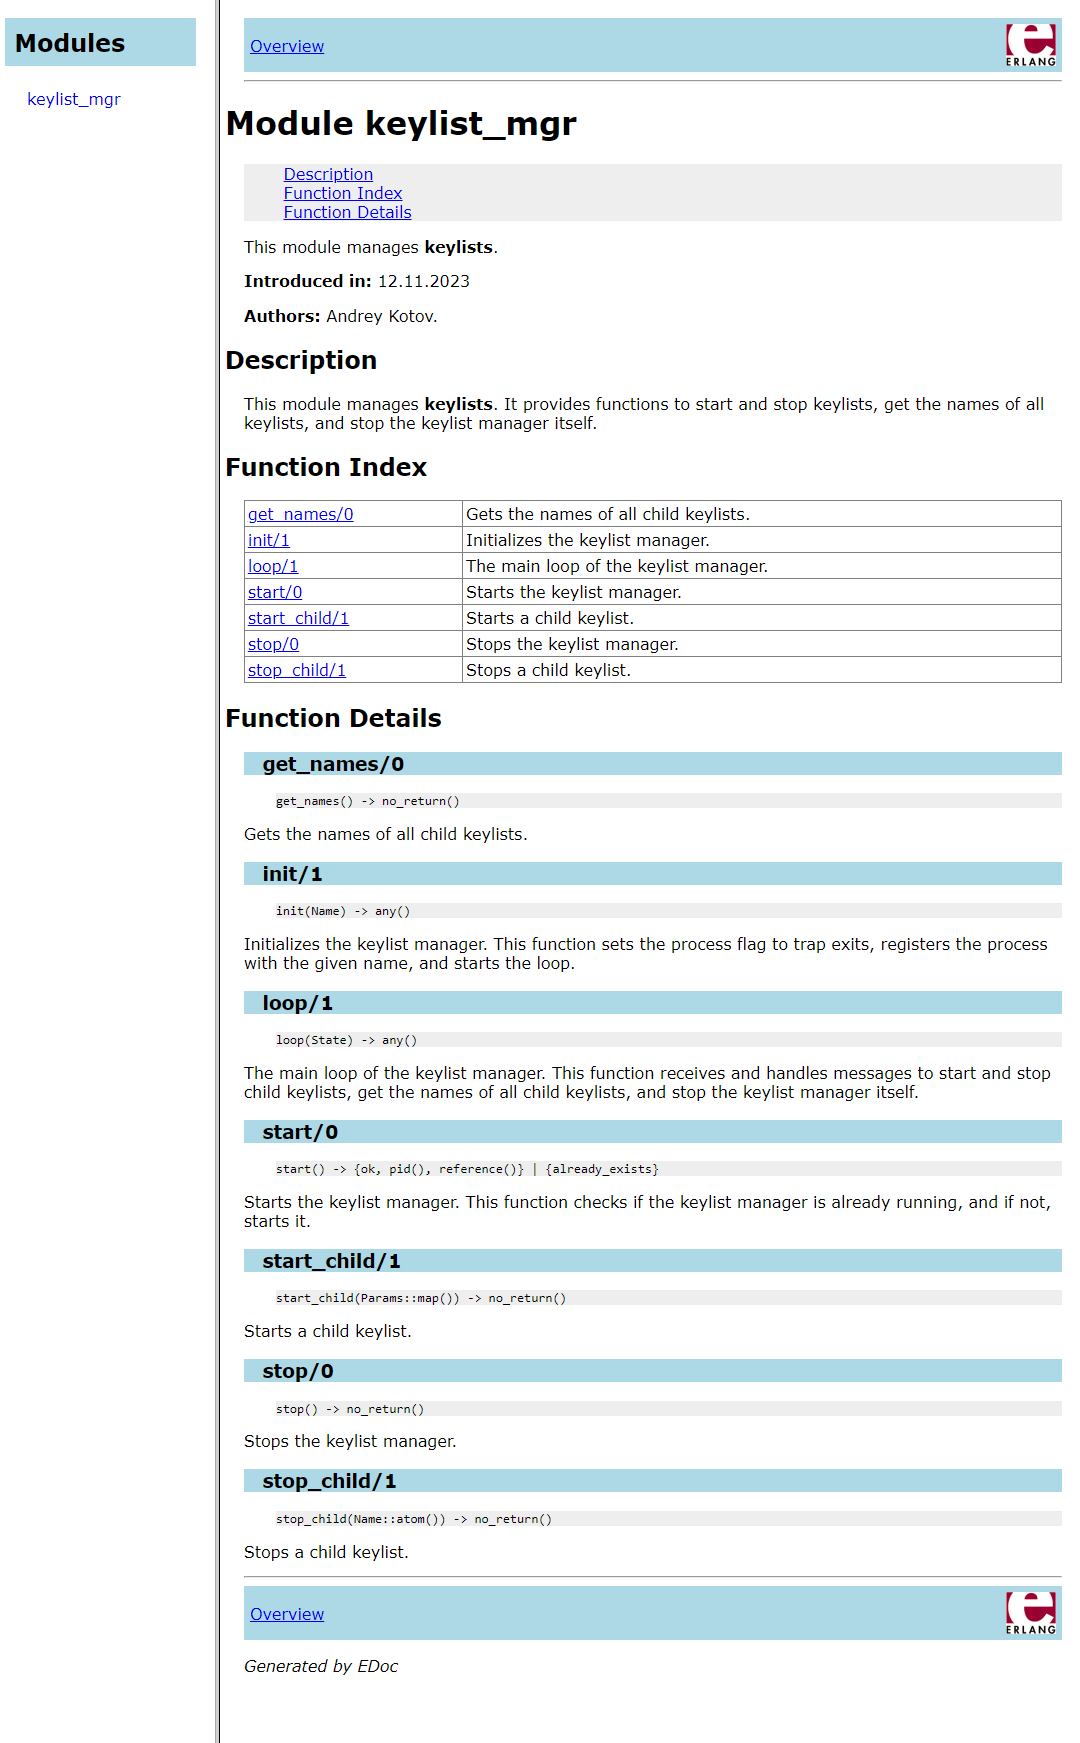
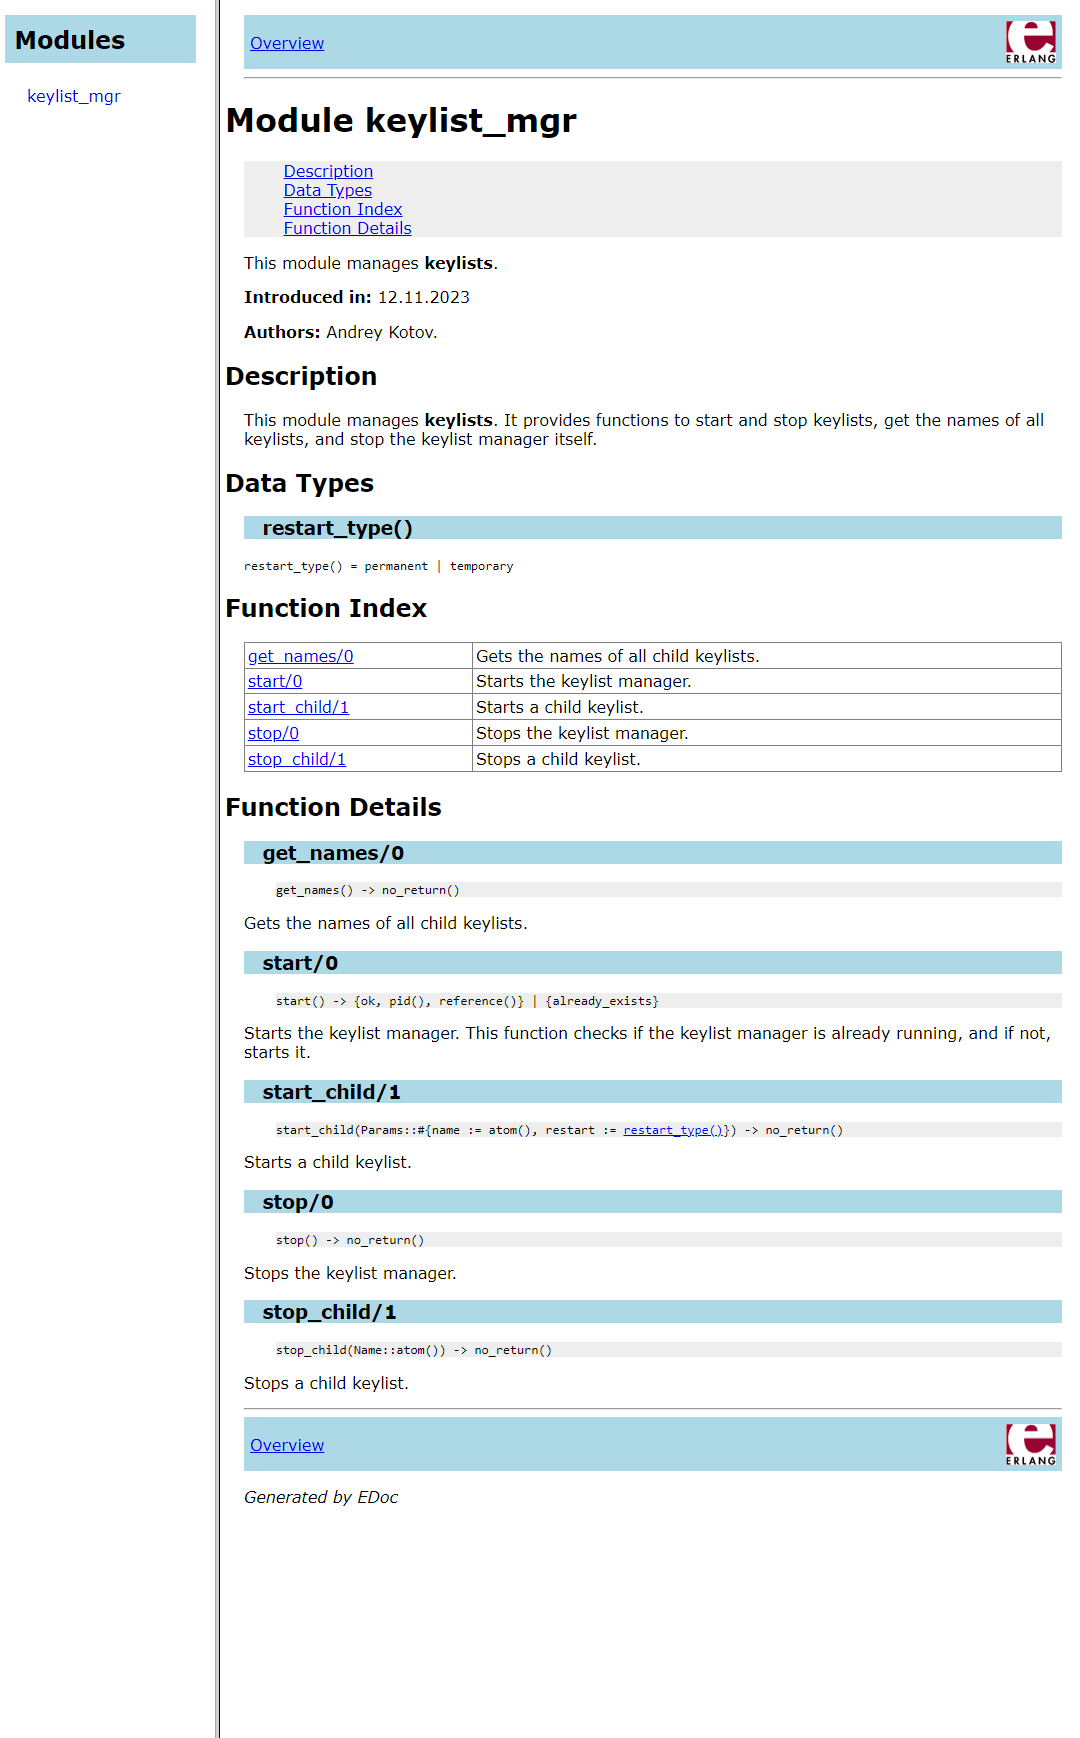
Code style and bug fixes

diff --git a/hm9/edoc/keylist_mgr.html b/hm9/edoc/keylist_mgr.html
@@ -10,17 +10,21 @@
 <hr>
 
 <h1>Module keylist_mgr</h1>
-<ul class="index"><li><a href="#description">Description</a></li><li><a href="#index">Function Index</a></li><li><a href="#functions">Function Details</a></li></ul>This module manages <b>keylists</b>.
+<ul class="index"><li><a href="#description">Description</a></li><li><a href="#types">Data Types</a></li><li><a href="#index">Function Index</a></li><li><a href="#functions">Function Details</a></li></ul>This module manages <b>keylists</b>.
 
 <p><b>Introduced in:</b> 12.11.2023</p>
 <p><b>Authors:</b> Andrey Kotov.</p>
 
 <h2><a name="description">Description</a></h2>This module manages <b>keylists</b>.
    It provides functions to start and stop keylists, get the names of all keylists, and stop the keylist manager itself.
+<h2><a name="types">Data Types</a></h2>
+
+<h3 class="typedecl"><a name="type-restart_type">restart_type()</a></h3>
+<p><tt>restart_type() = permanent | temporary</tt></p>
+
+
 <h2><a name="index">Function Index</a></h2>
 <table width="100%" border="1" cellspacing="0" cellpadding="2" summary="function index"><tr><td valign="top"><a href="#get_names-0">get_names/0</a></td><td>Gets the names of all child keylists.</td></tr>
-<tr><td valign="top"><a href="#init-1">init/1</a></td><td>Initializes the keylist manager.</td></tr>
-<tr><td valign="top"><a href="#loop-1">loop/1</a></td><td>The main loop of the keylist manager.</td></tr>
 <tr><td valign="top"><a href="#start-0">start/0</a></td><td>Starts the keylist manager.</td></tr>
 <tr><td valign="top"><a href="#start_child-1">start_child/1</a></td><td>Starts a child keylist.</td></tr>
 <tr><td valign="top"><a href="#stop-0">stop/0</a></td><td>Stops the keylist manager.</td></tr>
@@ -35,20 +39,6 @@
 <p> </p>
 </div><p>Gets the names of all child keylists.</p>
 
-<h3 class="function"><a name="init-1">init/1</a></h3>
-<div class="spec">
-<p><tt>init(Name) -&gt; any()</tt></p>
-<p> </p>
-</div><p>Initializes the keylist manager.
-  This function sets the process flag to trap exits, registers the process with the given name, and starts the loop.</p>
-
-<h3 class="function"><a name="loop-1">loop/1</a></h3>
-<div class="spec">
-<p><tt>loop(State) -&gt; any()</tt></p>
-<p> </p>
-</div><p>The main loop of the keylist manager.
-  This function receives and handles messages to start and stop child keylists, get the names of all child keylists, and stop the keylist manager itself.</p>
-
 <h3 class="function"><a name="start-0">start/0</a></h3>
 <div class="spec">
 <p><tt>start() -&gt; {ok, pid(), reference()} | {already_exists}</tt><br></p>
@@ -58,7 +48,7 @@
 
 <h3 class="function"><a name="start_child-1">start_child/1</a></h3>
 <div class="spec">
-<p><tt>start_child(Params::map()) -&gt; no_return()</tt><br></p>
+<p><tt>start_child(Params::#{name := atom(), restart := <a href="#type-restart_type">restart_type()</a>}) -&gt; no_return()</tt><br></p>
 <p> </p>
 </div><p>Starts a child keylist.</p>
 

diff --git a/hm9/readme.md b/hm9/readme.md
@@ -179,6 +179,7 @@ ok
 С помощью команды `edoc:files(["keylist_mgr.erl"]).` была сгенерирована документация для модуля `keylist_mgr.erl`.
 
 Она выглядит следующим образом:
+
 ![Alt text](img/image.png)
 
 # 2 Часть
